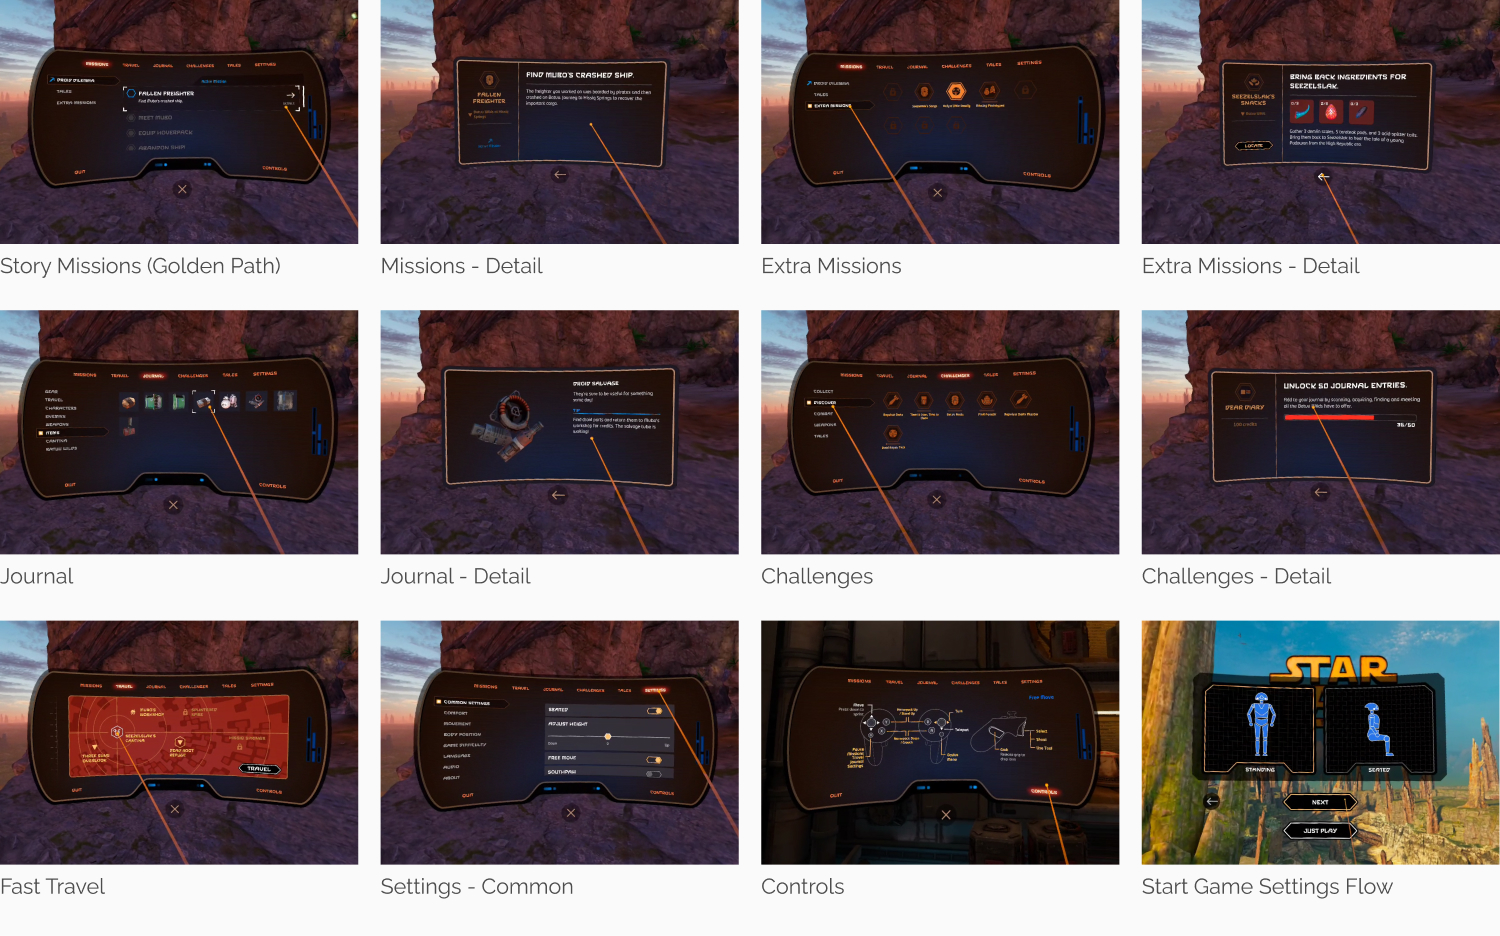
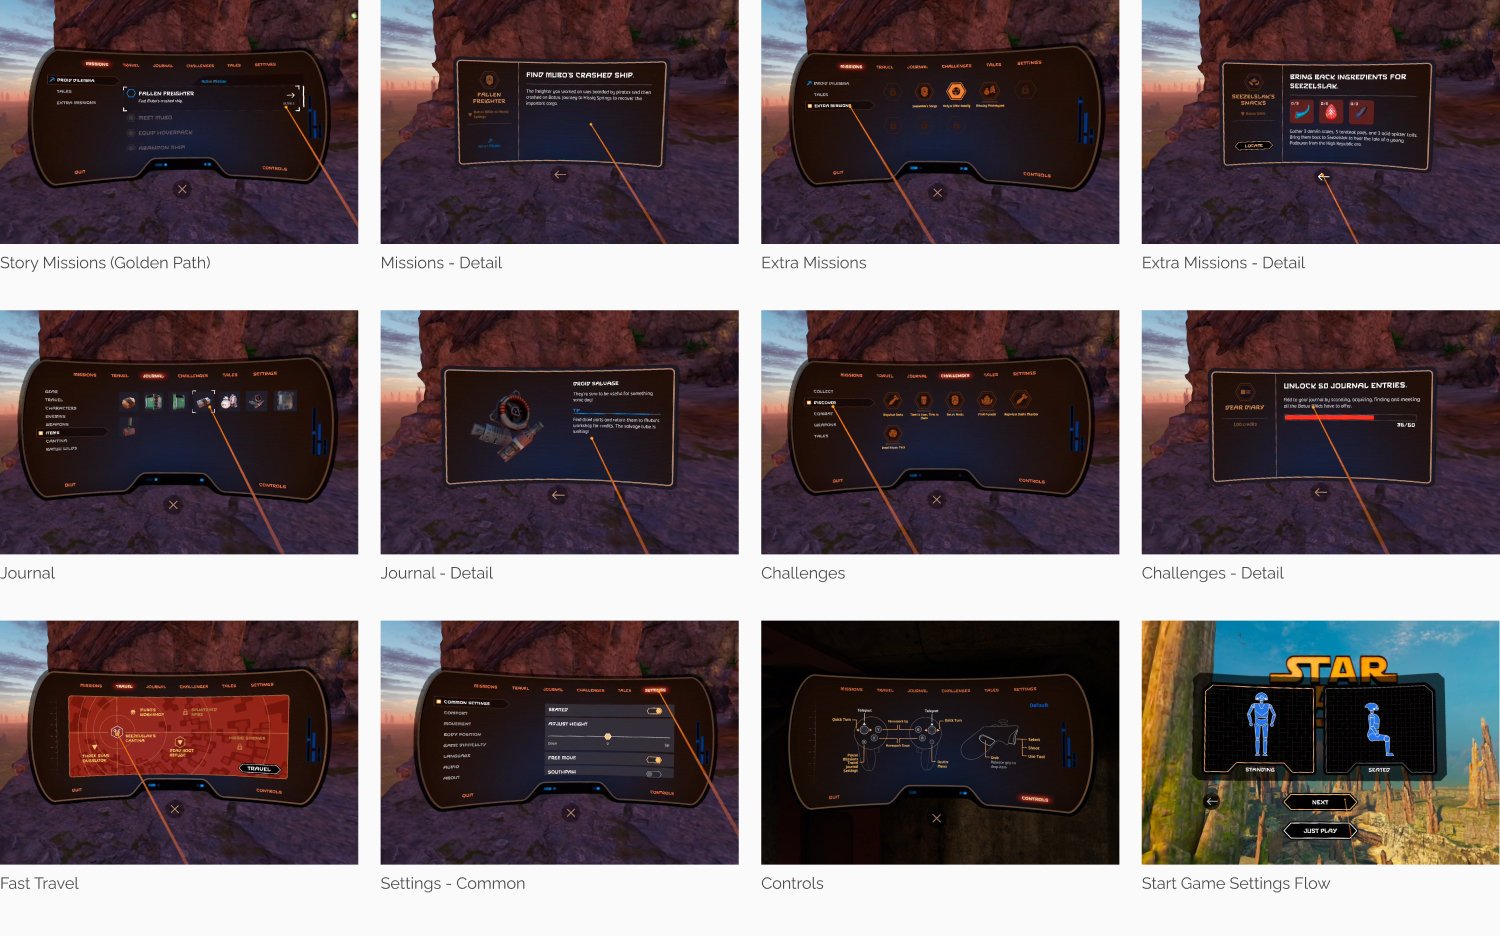
update tales

diff --git a/projects/tales/tales.html b/projects/tales/tales.html
@@ -79,7 +79,7 @@ h5{
         <img src="tales-poster1.jpg" />
         <img src="tales-poster2.jpg" />
       </div>
-      <div class="six columns">
+      <div class="six columns padded">
         <h5 class="large-title">Star Wars: Tales From the Galaxy's Edge</h5>
         <p>
           ILMxLAB (Lucasfilm)<br>
@@ -172,79 +172,6 @@ h5{
 
         </div>
     <hr>
-
-      <div class="row">
-        <div class="six columns" >
-          <video class="minimal" playsinline controls><source src="MCT_inventory_web.mp4"> </video>
-        </div>
-
-        <div class="six columns padded" >
-          <h5> Inventory Pouch</h5>
-
-          <p>
-            The number of inventory items increased in the second release. Working closely with the gameplay engineer, we designed this expandable inventory that balanced the need for quick access with the need to hold many quest items.
-            <br><br>
-            We gave priority to weapons in the 'mini' slots. Later we also added an 'organize' mode to make those actions more efficient. I also gathered feedback about desired improvements, and worked with our gameplay engineering lead to ship the shoulder holsters feature, allowing an item to be stored on the player's back.
-            <br><br>
-            The inventory pouch was one of the most complicated UI mechanics. The fun idea of turning a conventionally 2D UI element into a 3D object doesn't scale well. Diagetic elements have to follow laws of reality and industrial design, thus inheriting all the problems of real-life objects. If we had more inventory items in a future release, we would have moved most of the feature to the 2D Pause Menu.
-          </p>
-        </div>
-      </div>
-  <hr>
-    <div class="row">
-      <div class="six columns" >
-
-        <video class="minimal" playsinline controls muted><source src="MCT_tutorials_web.mp4"> </video>
-
-        <p class="caption"></p>
-      </div>
-
-      <div class="six columns padded" >
-        <h5>Tutorials</h5>
-        <p>
-          Game mechanics need to be paced out for learning and building your character.
-          <br> <br>
-          In VR, a lot of common features are stuck to your body, or mapped to controller buttons that you can't see. I recommended that we allow the player to attach each object and have a moment to learn how to use it.
-          <br> <br>
-          I worked with the level designer and gameplay engineer to build this intro sequence and the 20+ tutorials spread across this level.
-          <br> <br>
-          The inventory pouch was extra tricky, with a lot of back and forth on where it should be. It's on the chest, so we emphasize it in the beginning, reinforcing the action of picking up an item and stashing it in the pouch.
-        </p>
-      </div>
-
-    <!--
-      <div class="six columns padded" >
-        <h5>New VR players vs. Experienced players.</h5>
-
-        <p>
-        <ul>
-        <b>Things we keep in mind for New Players:</b>
-
-        <li>People get motion sick.</li>
-        <li>People want to play sitting down.</li>
-        <li>People need to learn the controllers.</li>
-        <li>Game mechanics need to be paced out so they can get the VR basics like locomotion.</li>
-        </ul>
-        <br>
-
-        <ul>
-        <b>Experienced Players:</b>
-
-        <li>Are much more vocal online.</li>
-        <li>Have played Half-Life Alyx.</li>
-        <li>Expect much more detailed control over things like locomotion settings.</li>
-        <li>Will progress through levels and gameplay much faster.</li>
-        </li>
-        </ul>
-
-        </p>
-      </div>
-    -->
-    </div>
-    <div class="row">
-      <img src="MCT_tutorial.png" />
-    </div>
-    <hr>
 <!--
     <div class="row">
 
@@ -274,9 +201,10 @@ h5{
 -->
       <div class="row">
         <div class="six columns" >
-
+          <img src="Gauntlet_hero.jpg" />
+<!--
           <video class="minimal" playsinline controls><source src="gauntlet_walkthrough.mp4"> </video>
-
+-->
         </div>
 
         <div class="six columns padded" >
@@ -288,6 +216,9 @@ h5{
             <br><br>
           </p>
         </div>
+      </div>
+      <div class="row">
+        <img src="Gauntlet_features.jpg" />
       </div>
 
       <hr>
@@ -368,6 +299,80 @@ h5{
 
 
       <hr>
+
+        <div class="row">
+          <div class="six columns" >
+            <video class="minimal" playsinline controls poster="inventory_poster.jpg"><source src="MCT_inventory_web.mp4"> </video>
+          </div>
+
+          <div class="six columns padded" >
+            <h5> Inventory Pouch</h5>
+
+            <p>
+              The number of inventory items increased in the second release. Working closely with the gameplay engineer, we designed this expandable inventory that balanced the need for quick access with the need to hold many quest items.
+              <br><br>
+              We gave priority to weapons in the 'mini' slots. Later we also added an 'organize' mode to make those actions more efficient. I also gathered feedback about desired improvements, and worked with our gameplay engineering lead to ship the shoulder holsters feature, allowing an item to be stored on the player's back.
+              <br><br>
+              The inventory pouch was one of the most complicated UI mechanics. The fun idea of turning a conventionally 2D UI element into a 3D object doesn't scale well. Diagetic elements have to follow laws of reality and industrial design, thus inheriting all the problems of real-life objects. If we had more inventory items in a future release, we would have moved most of the feature to the 2D Pause Menu.
+            </p>
+          </div>
+        </div>
+
+<hr>
+
+  <div class="row">
+    <div class="six columns" >
+
+      <video class="minimal" playsinline controls muted><source src="MCT_tutorials_web.mp4"> </video>
+
+      <p class="caption"></p>
+    </div>
+
+    <div class="six columns padded" >
+      <h5>Tutorials</h5>
+      <p>
+        Game mechanics need to be paced out for learning and building your character.
+        <br> <br>
+        In VR, a lot of common features are stuck to your body, or mapped to controller buttons that you can't see. I recommended that we allow the player to attach each object and have a moment to learn how to use it.
+        <br> <br>
+        I worked with the level designer and gameplay engineer to build this intro sequence and the 20+ tutorials spread across this level.
+        <br> <br>
+        The inventory pouch was extra tricky, with a lot of back and forth on where it should be. It's on the chest, so we emphasize it in the beginning, reinforcing the action of picking up an item and stashing it in the pouch.
+      </p>
+    </div>
+
+  <!--
+    <div class="six columns padded" >
+      <h5>New VR players vs. Experienced players.</h5>
+
+      <p>
+      <ul>
+      <b>Things we keep in mind for New Players:</b>
+
+      <li>People get motion sick.</li>
+      <li>People want to play sitting down.</li>
+      <li>People need to learn the controllers.</li>
+      <li>Game mechanics need to be paced out so they can get the VR basics like locomotion.</li>
+      </ul>
+      <br>
+
+      <ul>
+      <b>Experienced Players:</b>
+
+      <li>Are much more vocal online.</li>
+      <li>Have played Half-Life Alyx.</li>
+      <li>Expect much more detailed control over things like locomotion settings.</li>
+      <li>Will progress through levels and gameplay much faster.</li>
+      </li>
+      </ul>
+
+      </p>
+    </div>
+  -->
+  </div>
+  <div class="row">
+    <img src="MCT_Tutorial_screencaps.jpg" />
+  </div>
 
 <!--
       <div class="row">
